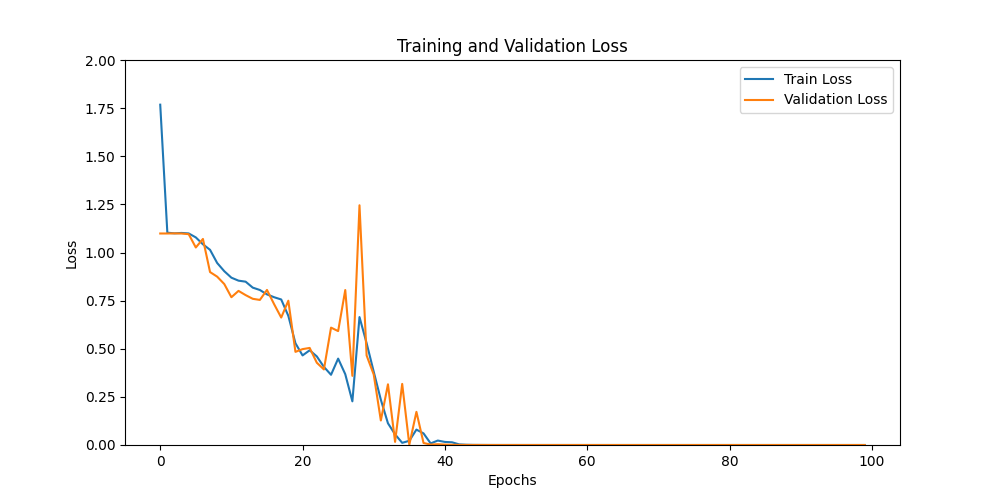
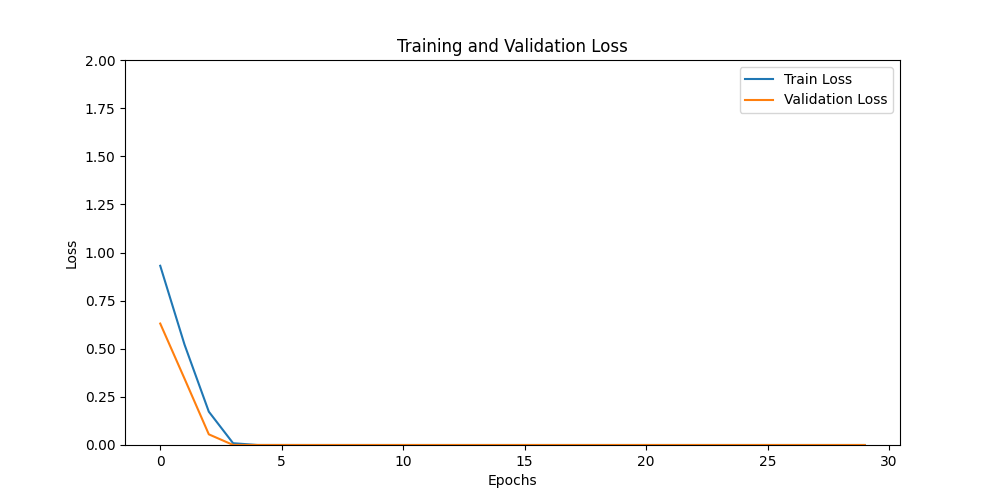
modified file

diff --git a/Shape_Classifier.py b/Shape_Classifier.py
@@ -6,7 +6,7 @@ import numpy as np
 import torch
 from torch.utils.data import Dataset, DataLoader
 from sklearn.model_selection import train_test_split
-
+import shutil
 # Function to generate a single image with a geometric shape
 def generate_shape_image(shape, size, rotation, img_size=(128, 128), noise=False):
     """
@@ -95,7 +95,7 @@ class ShapeDataset(Dataset):
         return image, label
 
 # Function to generate the dataset and save it to a folder
-def generate_dataset(output_dir="dataset", num_images_per_class=100, img_size=(128, 128), noise=False):
+def generate_dataset(output_dir="dataset", num_images_per_class=1000, img_size=(128, 128), noise=False):
     """
     Generate a dataset of images with geometric shapes and save them to a folder.
 
@@ -160,7 +160,7 @@ def load_dataset_from_folder(folder="dataset"):
     return data, labels
 
 # Main function to prepare the dataset and DataLoader
-def prepare_dataloaders(batch_size=32, test_size=0.2, val_size=0.1, num_images_per_class=100, img_size=(128, 128), noise=False, dataset_dir="dataset"):
+def prepare_dataloaders(batch_size=32, test_size=0.2, val_size=0.1, num_images_per_class=1000, img_size=(128, 128), noise=False, dataset_dir="dataset"):
     """
     Prepare PyTorch DataLoaders for training, validation, and testing.
 
@@ -176,10 +176,18 @@ def prepare_dataloaders(batch_size=32, test_size=0.2, val_size=0.1, num_images_p
     Returns:
         DataLoader, DataLoader, DataLoader: DataLoaders for training, validation, and testing.
     """
+    #if not Path(dataset_dir).exists():
+    #    print(f"Dataset folder '{dataset_dir}' not found. Generating dataset...")
+    #    generate_dataset(output_dir=dataset_dir, num_images_per_class=num_images_per_class, img_size=img_size, noise=noise)
+    
+    # Generate the dataset no matter if it exists or not
     if not Path(dataset_dir).exists():
         print(f"Dataset folder '{dataset_dir}' not found. Generating dataset...")
         generate_dataset(output_dir=dataset_dir, num_images_per_class=num_images_per_class, img_size=img_size, noise=noise)
-
+    else:
+        shutil.rmtree(dataset_dir)  # Remove existing dataset folder
+        generate_dataset(output_dir=dataset_dir, num_images_per_class=num_images_per_class, img_size=img_size, noise=noise)
+    
     data, labels = load_dataset_from_folder(folder=dataset_dir)
 
     # Split the dataset into train, validation, and test sets
@@ -200,7 +208,7 @@ def prepare_dataloaders(batch_size=32, test_size=0.2, val_size=0.1, num_images_p
 
 # Example usage
 if __name__ == "__main__":
-    train_loader, val_loader, test_loader = prepare_dataloaders(dataset_dir="dataset")
+    train_loader, val_loader, test_loader = prepare_dataloaders(dataset_dir="dataset",noise=True)
     print(f"Number of training batches: {len(train_loader)}")
     print(f"Number of validation batches: {len(val_loader)}")
     print(f"Number of testing batches: {len(test_loader)}")

diff --git a/Training_Testing_Moel.py b/Training_Testing_Moel.py
@@ -166,10 +166,10 @@ if __name__ == "__main__":
     # Initialize model, loss function, and optimizer
     model = SimpleCNN()
     criterion = nn.CrossEntropyLoss()
-    optimizer = optim.Adam(model.parameters(), lr=0.003)
+    optimizer = optim.Adam(model.parameters(), lr=0.001)
 
     # Train the model
-    train_losses, val_losses = train_model(model, train_loader, val_loader, criterion, optimizer, num_epochs=100, device=device)
+    train_losses, val_losses = train_model(model, train_loader, val_loader, criterion, optimizer, num_epochs=30, device=device)
 
     # Plot losses
     plot_losses(train_losses, val_losses)
